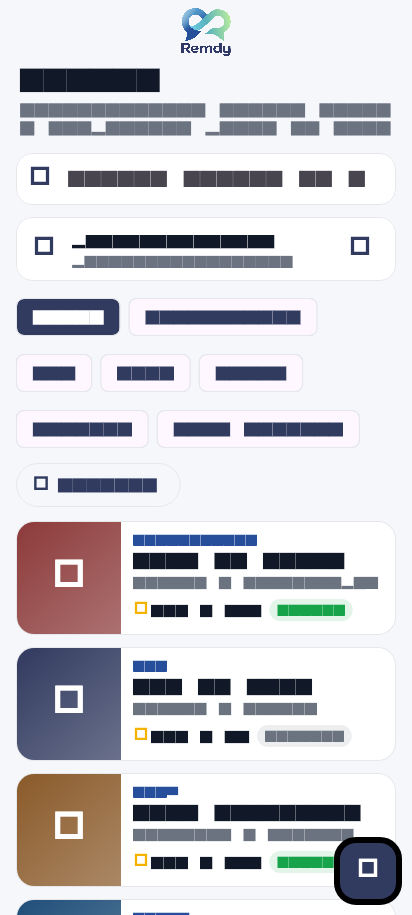
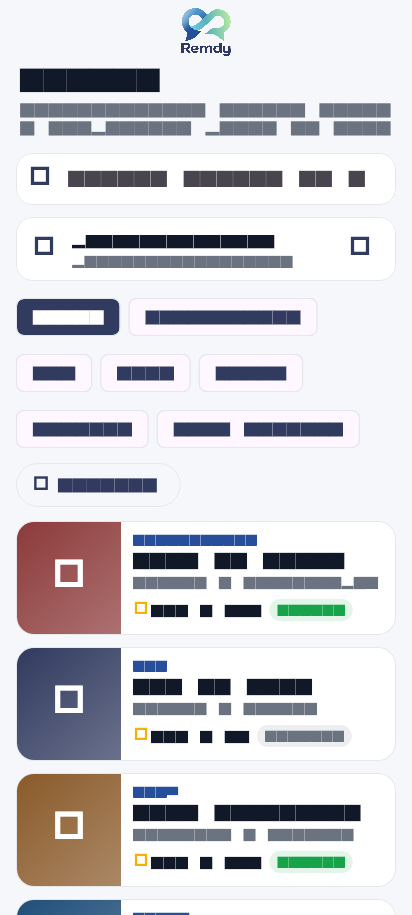
Eventos/Locais: remove FAB '+'; entrada só pelos cards do topo

Changed region(s): [[0.7864, 0.8874, 0.9903, 1.0]]

diff --git a/lib/features/locais/ui/locais_list_page.dart b/lib/features/locais/ui/locais_list_page.dart
@@ -115,15 +115,7 @@ class _LocaisListPageState extends State<LocaisListPage> {
     final visible = _visible;
     return Scaffold(
       backgroundColor: LocaisColors.bg,
-      // Mesmo botão da aba Eventos (criar evento).
-      floatingActionButton: FloatingActionButton(
-        key: const Key('locais_add_place_fab'),
-        heroTag: null,
-        backgroundColor: LocaisColors.navy,
-        tooltip: AppTexts.t('place_add_title'),
-        onPressed: _openAddPlace,
-        child: const Icon(Icons.add, color: Colors.white),
-      ),
+      // Entrada para cadastrar local: card do topo (sem FAB '+').
       body: SafeArea(
         child: LayoutBuilder(
           builder: (context, constraints) {

diff --git a/test/locais/place_submission_test.dart b/test/locais/place_submission_test.dart
@@ -16,10 +16,11 @@ void main() {
     AppTexts.loadFromMap(map, const Locale('pt', 'BR'));
   });
 
-  testWidgets('FAB "Adicionar local" na aba Locais', (tester) async {
+  testWidgets('aba Locais sem FAB; entrada só pelo card do topo', (tester) async {
     await pumpLocais(tester, demoList());
     await tester.pumpAndSettle();
-    expect(find.byKey(const Key('locais_add_place_fab')), findsOneWidget);
+    expect(find.byType(FloatingActionButton), findsNothing);
+    expect(find.byKey(const Key('locais_add_place_card')), findsOneWidget);
   });
 
   testWidgets('card "Cadastre seu local grátis" abre Adicionar local', (

diff --git a/lib/pages/events_page_new.dart b/lib/pages/events_page_new.dart
@@ -1725,19 +1725,7 @@ Widget build(BuildContext context) {
 
   return Scaffold(
     backgroundColor: _bg,
-    floatingActionButton: FloatingActionButton(
-      heroTag: null,
-      backgroundColor: _remdyBlue,
-      onPressed: () {
-        Navigator.push(
-          context,
-          MaterialPageRoute(
-            builder: (_) => const CreateEventPage(),
-          ),
-        );
-      },
-      child: const Icon(Icons.add, color: Colors.white),
-    ),
+    // Entrada para criar evento: card do topo (sem FAB '+').
     body: SafeArea(
       child: uid == null
           ? Center(

diff --git a/tool/screens/place_screens_test.dart b/tool/screens/place_screens_test.dart
@@ -141,9 +141,6 @@ void main() {
           onTap: () {},
         ),
       ])),
-      floatingActionButton: FloatingActionButton(
-        backgroundColor: const Color(0xFF313A5F), onPressed: () {},
-        child: const Icon(Icons.add, color: Colors.white)),
     ));
     await _shot(tester, '8_eventos_card');
   });
